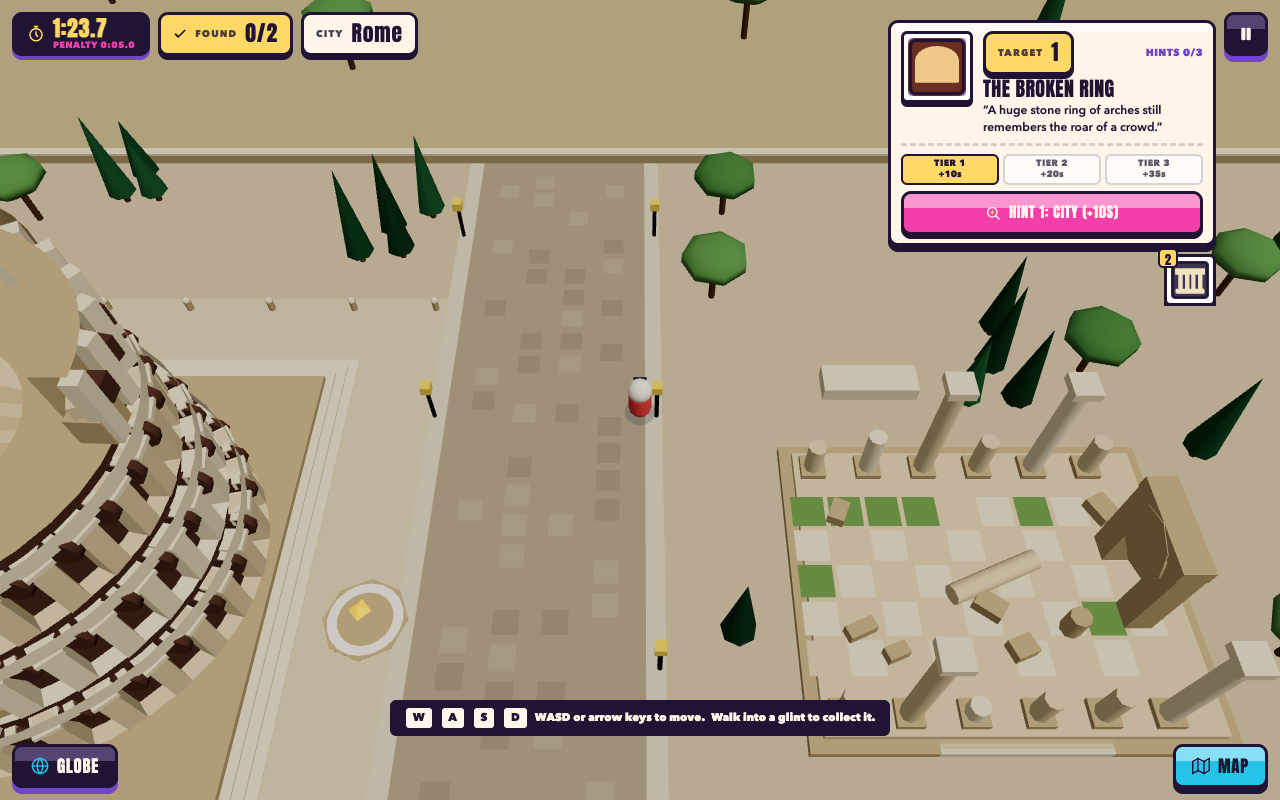
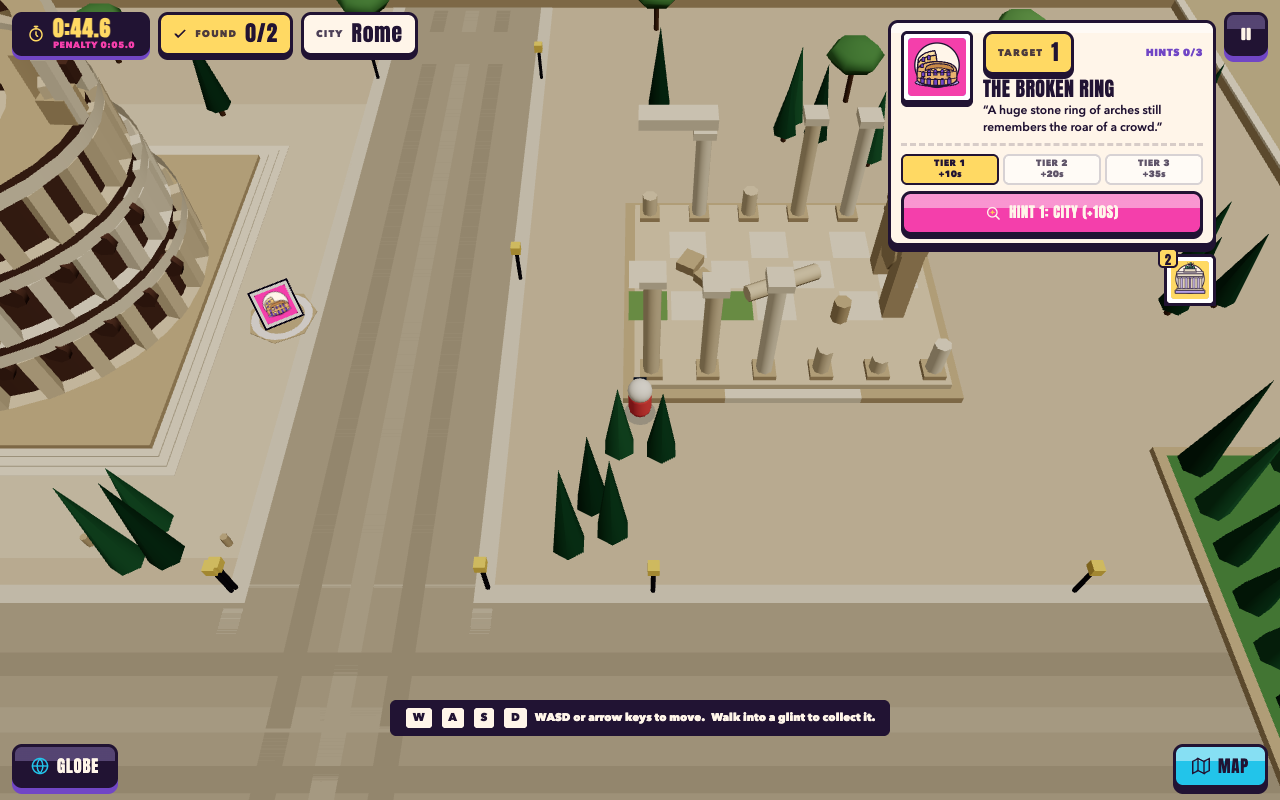
A8: Rome perf pass — halve standard-quality instance count, reduce segments

diff --git a/src/cities/rome/RomeScene.tsx b/src/cities/rome/RomeScene.tsx
@@ -37,20 +37,20 @@ import type { Rng } from '@/shared/seed';
 // ---------------------------------------------------------------------------
 
 const UNIT_BOX = new BoxGeometry(1, 1, 1);
-const UNIT_CYLINDER = new CylinderGeometry(0.5, 0.5, 1, 8);
-const UNIT_SPHERE = new SphereGeometry(1, 7, 5);
-const UNIT_CONE = new ConeGeometry(0.5, 1, 7);
+const UNIT_CYLINDER = new CylinderGeometry(0.5, 0.5, 1, 7);
+const UNIT_SPHERE = new SphereGeometry(1, 6, 4);
+const UNIT_CONE = new ConeGeometry(0.5, 1, 6);
 const HIP_ROOF = new ConeGeometry(Math.SQRT1_2, 1, 4);
 const UNIT_PLANE = new PlaneGeometry(1, 1);
 const SOCKET_RING = new RingGeometry(1.7, 2.3, 20);
 /** Open-ended thin shell used for the Colosseum tiers and the fountain basins. */
-const SHELL = new CylinderGeometry(0.5, 0.5, 1, 40, 1, true);
+const SHELL = new CylinderGeometry(0.5, 0.5, 1, 30, 1, true);
 /** Flat annulus for Colosseum tier floors (inner radius is 60% of the outer). */
-const TIER_FLOOR = new RingGeometry(0.3, 0.5, 40);
+const TIER_FLOOR = new RingGeometry(0.3, 0.5, 30);
 /** Broken upper wall: about 55% of the circumference survives. */
 const ATTIC_SWEEP = Math.PI * 1.1;
-const ATTIC_SHELL = new CylinderGeometry(0.5, 0.5, 1, 24, 1, true, 0, ATTIC_SWEEP);
-const ATTIC_FLOOR = new RingGeometry(0.42, 0.5, 24, 1, 0, ATTIC_SWEEP);
+const ATTIC_SHELL = new CylinderGeometry(0.5, 0.5, 1, 18, 1, true, 0, ATTIC_SWEEP);
+const ATTIC_FLOOR = new RingGeometry(0.42, 0.5, 18, 1, 0, ATTIC_SWEEP);
 
 const WHITE = new MeshLambertMaterial({ color: '#ffffff' });
 const WHITE_DOUBLE = new MeshLambertMaterial({ color: '#ffffff', side: DoubleSide });
@@ -267,25 +267,9 @@ function buildHouses(houses: readonly House[], rng: Rng, quality: Quality, batch
     });
     batches.boxes.push(boxItem(eaves, height - 0.3, 0.35, TRIM_TONE));
     if (quality === 'low') continue;
-    // Pantile detail: a dark ridge cap and two tile courses running along the long axis of the roof.
+    // Pantile detail: a dark ridge cap along the long axis of the roof.
     const alongX = width(rect) >= depth(rect);
     batches.boxes.push({ x: centerX(rect), y: height + 1.75, z: centerZ(rect), sx: alongX ? width(rect) * 0.35 : 0.5, sy: 0.25, sz: alongX ? 0.5 : depth(rect) * 0.35, color: ROOF_RIDGE });
-    for (const t of [0.35, 0.6]) {
-      const half = alongX ? depth(eaves) / 2 : width(eaves) / 2;
-      const y = height + 0.9 + (1 - t) * 0.9;
-      for (const side of [-1, 1] as const) {
-        const off = side * half * t;
-        batches.boxes.push({
-          x: alongX ? centerX(eaves) : centerX(eaves) + off,
-          y,
-          z: alongX ? centerZ(eaves) + off : centerZ(eaves),
-          sx: alongX ? width(eaves) * (1 - t * 0.6) : 0.18,
-          sy: 0.12,
-          sz: alongX ? 0.18 : depth(eaves) * (1 - t * 0.6),
-          color: ROOF_RIDGE,
-        });
-      }
-    }
 
     // Ground-floor arches on the +Z face (the chase camera looks toward -Z, so +Z faces are seen).
     const frontZ = rect.maxZ + 0.06;
@@ -314,13 +298,11 @@ function buildHouses(houses: readonly House[], rng: Rng, quality: Quality, batch
           batches.boxes.push({ x, y, z: frontZ, sx: 1.0, sy: 1.5, sz: 0.1, color: WINDOW_TONE });
           batches.boxes.push({ x: x - 0.75, y, z: frontZ, sx: 0.4, sy: 1.5, sz: 0.14, color: SHUTTER_TONE });
           batches.boxes.push({ x: x + 0.75, y, z: frontZ, sx: 0.4, sy: 1.5, sz: 0.14, color: SHUTTER_TONE });
-          if (floor === 1 && rng.next() < 0.5) {
-            // Balcony: stone slab, iron railing, flower box.
+          if (floor === 1 && rng.next() < 0.4) {
+            // Balcony: stone slab, iron railing, one flower box.
             batches.boxes.push({ x, y: y - 0.85, z: frontZ + 0.45, sx: 2.2, sy: 0.16, sz: 0.9, color: TRIM_TONE });
             batches.boxes.push({ x, y: y - 0.35, z: frontZ + 0.88, sx: 2.2, sy: 0.9, sz: 0.06, color: RAILING_TONE });
-            batches.boxes.push({ x, y: y + 0.12, z: frontZ + 0.88, sx: 2.3, sy: 0.06, sz: 0.06, color: RAILING_TONE });
-            batches.spheres.push({ x: x - 0.6, y: y + 0.2, z: frontZ + 0.8, sx: 0.28, sy: 0.24, sz: 0.28, color: rng.pick(FLOWER_TONES) });
-            batches.spheres.push({ x: x + 0.6, y: y + 0.2, z: frontZ + 0.8, sx: 0.28, sy: 0.24, sz: 0.28, color: rng.pick(FLOWER_TONES) });
+            batches.boxes.push({ x, y: y + 0.2, z: frontZ + 0.8, sx: 1.6, sy: 0.4, sz: 0.5, color: rng.pick(FLOWER_TONES) });
           }
         }
       }
@@ -360,7 +342,7 @@ function buildTrattoria(landmark: Landmark, quality: Quality, batches: Batches):
 
   // Striped awning along the +Z front, hanging just off the facade.
   const frontZ = footprint.maxZ;
-  const stripe = quality === 'low' ? 2 : 1;
+  const stripe = 2;
   for (let x = footprint.minX; x < footprint.maxX - 0.01; x += stripe) {
     const index = Math.round((x - footprint.minX) / stripe);
     batches.boxes.push({ x: x + stripe / 2, y: 3.4, z: frontZ + 1.1, sx: stripe, sy: 0.14, sz: 2.2, rx: 0.3, color: index % 2 === 0 ? AWNING_GREEN : AWNING_WHITE });
@@ -391,10 +373,7 @@ function cafeTable(x: number, z: number, tone: string, batches: Batches): void {
   batches.cylinders.push({ x, y: 0.95, z, sx: 1.4, sy: 0.12, sz: 1.4, color: TABLE_TONE });
   batches.cylinders.push({ x, y: 1.9, z, sx: 0.1, sy: 2.0, sz: 0.1, color: LAMP_POST_TONE });
   batches.cones.push({ x, y: 3.2, z, sx: 3.2, sy: 0.9, sz: 3.2, color: tone });
-  batches.cones.push({ x, y: 3.7, z, sx: 0.4, sy: 0.3, sz: 0.4, color: TABLE_TONE });
-  for (const [dx, dz] of [[-0.9, 0.5], [0.9, 0.5]] as const) {
-    batches.boxes.push({ x: x + dx, y: 0.5, z: z + dz, sx: 0.5, sy: 0.9, sz: 0.5, color: TRUNK_TONE });
-  }
+  batches.boxes.push({ x: x + 0.9, y: 0.5, z: z + 0.5, sx: 0.5, sy: 0.9, sz: 0.5, color: TRUNK_TONE });
 }
 
 // ---------------------------------------------------------------------------
@@ -408,7 +387,7 @@ const ATTIC_HEIGHT = 4.6;
 function atticPoint(cx: number, cz: number, ax: number, az: number, angle: number): readonly [number, number] {
   return [cx + Math.cos(angle) * ax, cz - Math.sin(angle) * az];
 }
-const PILLAR_COUNT = 30;
+const PILLAR_COUNT = 24;
 
 function buildColosseum(landmark: Landmark, quality: Quality, batches: Batches): void {
   const { footprint } = landmark;
@@ -430,7 +409,7 @@ function buildColosseum(landmark: Landmark, quality: Quality, batches: Batches):
   batches.flats.push({ x: cx, y: plinthHeight + 0.31, z: cz, sx: rx * 1.1, sy: 1.4, sz: 1, rx: FLAT, color: ARCH_SHADOW });
   batches.flats.push({ x: cx, y: plinthHeight + 0.31, z: cz, sx: 1.4, sy: rz * 1.1, sz: 1, rx: FLAT, color: ARCH_SHADOW });
   // Cavea: stepped seating rings climbing from the arena wall up to the second tier floor.
-  const seatRows = quality === 'low' ? 3 : 6;
+  const seatRows = quality === 'low' ? 3 : 4;
   for (let row = 0; row < seatRows; row += 1) {
     const t = (row + 1) / (seatRows + 1);
     const sx = rx * 1.25 + (rx * 2 - 2.6 - rx * 1.25) * t;
@@ -460,14 +439,12 @@ function buildColosseum(landmark: Landmark, quality: Quality, batches: Batches):
       const px = cx + Math.cos(angle) * (tx - 0.55);
       const pz = cz + Math.sin(angle) * (tz - 0.55);
       batches.boxes.push({ x: px, y: y0 + (TIER_HEIGHT - 1) / 2, z: pz, sx: 1.1, sy: TIER_HEIGHT - 1, sz: 1.1, ry: -angle, color: tier === 1 ? TRAVERTINE_LIGHT : TRAVERTINE });
-      if (quality === 'low') continue;
-      // Rounded arch head over each opening, a light keystone above it, and a pilaster capital.
+      // Rounded arch head over each opening, on the camera-facing half of the two lower tiers only.
+      if (quality === 'low' || tier === TIER_COUNT - 1 || Math.sin(angle) < -0.2) continue;
       const mid = angle + Math.PI / pillars;
       const ax = cx + Math.cos(mid) * (tx - 0.5);
       const az = cz + Math.sin(mid) * (tz - 0.5);
       batches.cylinders.push({ x: ax, y: y0 + TIER_HEIGHT - 1.55, z: az, sx: 1.9, sy: 0.5, sz: 1.9, rx: Math.PI / 2, ry: -mid, color: ARCH_SHADOW });
-      batches.boxes.push({ x: ax, y: y0 + TIER_HEIGHT - 0.9, z: az, sx: 0.5, sy: 0.7, sz: 0.5, ry: -mid, color: TRAVERTINE_LIGHT });
-      batches.boxes.push({ x: px, y: y0 + TIER_HEIGHT - 1.15, z: pz, sx: 1.4, sy: 0.3, sz: 1.4, ry: -angle, color: TRAVERTINE_LIGHT });
     }
   }
   // Statues in the second-tier arches facing the piazza.
@@ -498,7 +475,7 @@ function buildColosseum(landmark: Landmark, quality: Quality, batches: Batches):
     batches.boxes.push({ x: wx, y: atticY0 + 2.2, z: wz, sx: 1.2, sy: 0.9, sz: 1.2, ry: -angle + 0.4, color: TRAVERTINE });
   }
   if (quality === 'low') return;
-  const pilasters = 16;
+  const pilasters = 10;
   for (let index = 0; index <= pilasters; index += 1) {
     const angle = (index / pilasters) * ATTIC_SWEEP;
     const [px, pz] = atticPoint(cx, cz, ax + 0.15, az + 0.15, angle);
@@ -631,7 +608,7 @@ function buildFountain(landmark: Landmark, quality: Quality, batches: Batches): 
 function buildForumRuin(blocker: Blocker, rng: Rng, quality: Quality, batches: Batches): void {
   batches.boxes.push(boxItem(blocker, 0, 0.6, TRAVERTINE_DARK));
   batches.boxes.push(boxItem(grow(blocker, -0.8), 0.6, 0.5, TRAVERTINE));
-  const step = quality === 'low' ? 5 : 3.6;
+  const step = quality === 'low' ? 5 : 4;
   let index = 0;
   for (let x = blocker.minX + 2; x <= blocker.maxX - 2; x += step) {
     for (const z of [blocker.minZ + 2, blocker.maxZ - 2]) {
@@ -649,14 +626,11 @@ function buildForumRuin(blocker: Blocker, rng: Rng, quality: Quality, batches: B
   batches.cylinders.push({ x: centerX(blocker) + 4, y: 1.7, z: centerZ(blocker) + 3, sx: 1.3, sy: 2.4, sz: 1.3, color: TRAVERTINE_DARK });
   if (quality === 'low') return;
   // Checkered paving slabs on the podium, a grassy patch where slabs are missing, and steps on the +Z side.
-  for (let x = blocker.minX + 1.4; x < blocker.maxX - 1.2; x += 2.4) {
-    for (let z = blocker.minZ + 5.2; z < blocker.maxZ - 5.0; z += 2.4) {
-      const parity = (Math.round((x - blocker.minX) / 2.4) + Math.round((z - blocker.minZ) / 2.4)) % 2;
-      if (rng.next() < 0.12) {
-        batches.flats.push({ x, y: 1.115, z, sx: 2.1, sy: 2.1, sz: 1, rx: FLAT, color: GRASS_TONE });
-        continue;
-      }
-      batches.flats.push({ x, y: 1.115, z, sx: 2.1, sy: 2.1, sz: 1, rx: FLAT, color: parity === 0 ? TRAVERTINE_LIGHT : TRAVERTINE });
+  for (let x = blocker.minX + 1.8; x < blocker.maxX - 1.6; x += 3.2) {
+    for (let z = blocker.minZ + 5.4; z < blocker.maxZ - 5.0; z += 3.2) {
+      const parity = (Math.round((x - blocker.minX) / 3.2) + Math.round((z - blocker.minZ) / 3.2)) % 2;
+      if (parity === 1 && rng.next() > 0.15) continue;
+      batches.flats.push({ x, y: 1.115, z, sx: 2.9, sy: 2.9, sz: 1, rx: FLAT, color: parity === 1 ? GRASS_TONE : TRAVERTINE_LIGHT });
     }
   }
   batches.boxes.push({ x: centerX(blocker), y: 0.3, z: blocker.maxZ - 0.4, sx: width(blocker) * 0.4, sy: 0.6, sz: 0.8, color: TRAVERTINE_LIGHT });
@@ -668,7 +642,7 @@ function buildForumRuin(blocker: Blocker, rng: Rng, quality: Quality, batches: B
   }
   batches.boxes.push({ x: archX, y: 1.1 + 6.9, z: archZ, sx: 1.8, sy: 1.0, sz: 6.0, color: TRAVERTINE_DARK });
   batches.cylinders.push({ x: archX, y: 1.1 + 5.2, z: archZ, sx: 4.4, sy: 1.9, sz: 4.4, rz: Math.PI / 2, color: TRAVERTINE_DARK });
-  for (let i = 0; i < 6; i += 1) {
+  for (let i = 0; i < 3; i += 1) {
     batches.boxes.push({
       x: blocker.minX + 3 + rng.next() * (width(blocker) - 6),
       y: 1.5,
@@ -746,7 +720,7 @@ function buildOutskirts(bounds: RectXZ, rng: Rng, quality: Quality, batches: Bat
     batches.boxes.push(boxItem(rect, 0, wallHeight, TRAVERTINE_DARK));
     batches.boxes.push(boxItem(grow(rect, 0.1), wallHeight, 0.2, TRAVERTINE_LIGHT));
   }
-  const count = quality === 'low' ? 30 : 90;
+  const count = quality === 'low' ? 16 : 40;
   for (let i = 0; i < count; i += 1) {
     const side = rng.int(4);
     const along = rng.next();
@@ -761,8 +735,8 @@ function buildOutskirts(bounds: RectXZ, rng: Rng, quality: Quality, batches: Bat
       batches.spheres.push({ x, y: trunk + 1.2, z, sx: 3.4, sy: 1.6, sz: 3.4, color: rng.pick(PINE_TONES) });
     }
   }
-  for (let i = 0; i < 10; i += 1) {
-    const angle = (i / 10) * Math.PI * 2 + rng.next() * 0.3;
+  for (let i = 0; i < 8; i += 1) {
+    const angle = (i / 8) * Math.PI * 2 + rng.next() * 0.3;
     const dist = reach + 20 + rng.next() * 20;
     const x = centerX(bounds) + Math.cos(angle) * (width(bounds) / 2 + dist);
     const z = centerZ(bounds) + Math.sin(angle) * (depth(bounds) / 2 + dist);
@@ -787,7 +761,7 @@ function isPropSafe(definition: CityDefinition, x: number, z: number): boolean {
 
 function buildProps(definition: CityDefinition, rng: Rng, quality: Quality, batches: Batches): void {
   const placed: [number, number][] = [];
-  const target = quality === 'low' ? 20 : 56;
+  const target = quality === 'low' ? 16 : 34;
   const { bounds } = definition;
   for (let attempt = 0; attempt < target * 8 && placed.length < target; attempt += 1) {
     const x = bounds.minX + rng.next() * width(bounds);
@@ -798,7 +772,7 @@ function buildProps(definition: CityDefinition, rng: Rng, quality: Quality, batc
     const roll = rng.next();
     if (roll < 0.3 && quality !== 'low') {
       // Cypress grove: a tight cluster of three to five spires of varying height.
-      const count = 3 + rng.int(3);
+      const count = 3;
       for (let i = 0; i < count; i += 1) {
         const angle = (i / count) * Math.PI * 2 + rng.next();
         const radius = 1.2 + rng.next() * 1.2;
@@ -822,8 +796,8 @@ function buildProps(definition: CityDefinition, rng: Rng, quality: Quality, batc
   for (const landmark of definition.landmarks) {
     if (landmark.silhouette !== 'fountain') continue;
     const ring = grow(landmark.footprint, 4);
-    for (let x = ring.minX + 1; x <= ring.maxX - 1; x += 4.5) {
-      for (const z of [ring.minZ, ring.maxZ]) {
+    for (let x = ring.minX + 1; x <= ring.maxX - 1; x += 6) {
+      for (const z of [ring.maxZ]) {
         if (!isPropSafe(definition, x, z)) continue;
         cafeTable(x, z, UMBRELLA_TONES[tables % UMBRELLA_TONES.length]!, batches);
         tables += 1;
@@ -843,18 +817,16 @@ function buildProps(definition: CityDefinition, rng: Rng, quality: Quality, batc
   for (const landmark of definition.landmarks) {
     if (landmark.silhouette === 'cafe') continue;
     const ring = grow(landmark.footprint, landmark.silhouette === 'colosseum' ? 7 : 6);
-    for (let x = ring.minX; x <= ring.maxX + 0.01; x += (width(ring) / Math.round(width(ring) / 6))) {
-      for (const z of [ring.minZ, ring.maxZ]) {
-        if (!isPropSafe(definition, x, z)) continue;
-        batches.cylinders.push({ x, y: 0.45, z, sx: 0.5, sy: 0.9, sz: 0.5, color: TRAVERTINE_DARK });
-        batches.spheres.push({ x, y: 0.95, z, sx: 0.3, sy: 0.3, sz: 0.3, color: TRAVERTINE_LIGHT });
-      }
+    for (let x = ring.minX; x <= ring.maxX + 0.01; x += (width(ring) / Math.round(width(ring) / 9))) {
+      const z = ring.maxZ;
+      if (!isPropSafe(definition, x, z)) continue;
+      batches.cylinders.push({ x, y: 0.5, z, sx: 0.5, sy: 1.0, sz: 0.5, color: TRAVERTINE_DARK });
     }
   }
   for (const road of definition.roads) {
     const horizontal = width(road) >= depth(road);
     const length = horizontal ? width(road) : depth(road);
-    for (let along = 9; along < length; along += 18) {
+    for (let along = 12; along < length; along += 26) {
       for (const side of [-1, 1] as const) {
         const x = horizontal ? road.minX + along : centerX(road) + side * (width(road) / 2 + 0.8);
         const z = horizontal ? centerZ(road) + side * (depth(road) / 2 + 0.8) : road.minZ + along;
@@ -887,18 +859,14 @@ export function RomeScene({ definition, seed, quality }: CitySceneProps) {
     }
     for (const road of roads) batches.flats.push(flatItem(road, 0.02, COBBLE_TONE));
     if (quality !== 'low') {
-      // Sparse cobble slabs in two tones, staggered along each lane, plus a pale centre line of kerbstones.
+      // Cobble texture as three long two-tone bands per road instead of hundreds of individual slabs.
       for (const road of roads) {
         const horizontal = width(road) >= depth(road);
-        const length = horizontal ? width(road) : depth(road);
-        for (let along = 1.5; along < length - 1.5; along += 2.2) {
-          for (const lane of [-4.5, -1.5, 1.5, 4.5]) {
-            if (rng.next() < 0.5) continue;
-            const stagger = Math.abs(lane) < 2 ? 1.1 : 0;
-            const x = horizontal ? road.minX + along + stagger : centerX(road) + lane;
-            const z = horizontal ? centerZ(road) + lane : road.minZ + along + stagger;
-            batches.flats.push({ x, y: 0.024, z, sx: 1.6, sy: 1.6, sz: 1, rx: FLAT, color: rng.next() < 0.5 ? COBBLE_DARK : COBBLE_LIGHT });
-          }
+        for (const lane of [-3.2, 0, 3.2]) {
+          const band: RectXZ = horizontal
+            ? { minX: road.minX + 0.6, maxX: road.maxX - 0.6, minZ: centerZ(road) + lane - 0.7, maxZ: centerZ(road) + lane + 0.7 }
+            : { minX: centerX(road) + lane - 0.7, maxX: centerX(road) + lane + 0.7, minZ: road.minZ + 0.6, maxZ: road.maxZ - 0.6 };
+          batches.flats.push(flatItem(band, 0.024, lane === 0 ? COBBLE_LIGHT : COBBLE_DARK));
         }
       }
     }

diff --git a/docs/status/A8.md b/docs/status/A8.md
@@ -1,6 +1,19 @@
 # A8 — Rome status
 
-## State: PR_OPEN (branch `devin/*-a8-rome`, one PR into `main`)
+## State: PR_OPEN — perf pass (branch `devin/*-a8-rome-perf`)
+
+Perf pass (SwiftShader, 1280x720, Rome at rest after fly-in; local probe using the perf.spec method):
+
+| quality  | instances before → after | fps before → after | mean ms | draw calls/frame |
+|----------|--------------------------|--------------------|---------|------------------|
+| standard | 1994 → 964               | 21.5–25.9 → 40.9   | 46 → 24 | 15 → 15          |
+| low      | 384 → 333                | 50.8 → 54.4        | 20 → 18 | 15 → 15          |
+
+Cuts: per-slab cobbles → 3 bands per road; Colosseum 30→24 pillars/tier, arch heads only on the
+camera-facing half of the two lower tiers, keystones/capitals dropped, 4 seat rows, 10 attic
+pilasters; house tile courses and flower spheres removed; cafe tables 7→5 parts; bollards/tables on
+the +Z piazza edge only; fewer props/outskirts trees/hills; cylinder 8→7, sphere 7x5→6x4, cone 7→6,
+shell/tier ring 40→30, attic 24→18 segments. Definition, sockets, blockers untouched.
 
 ## What was done
 
